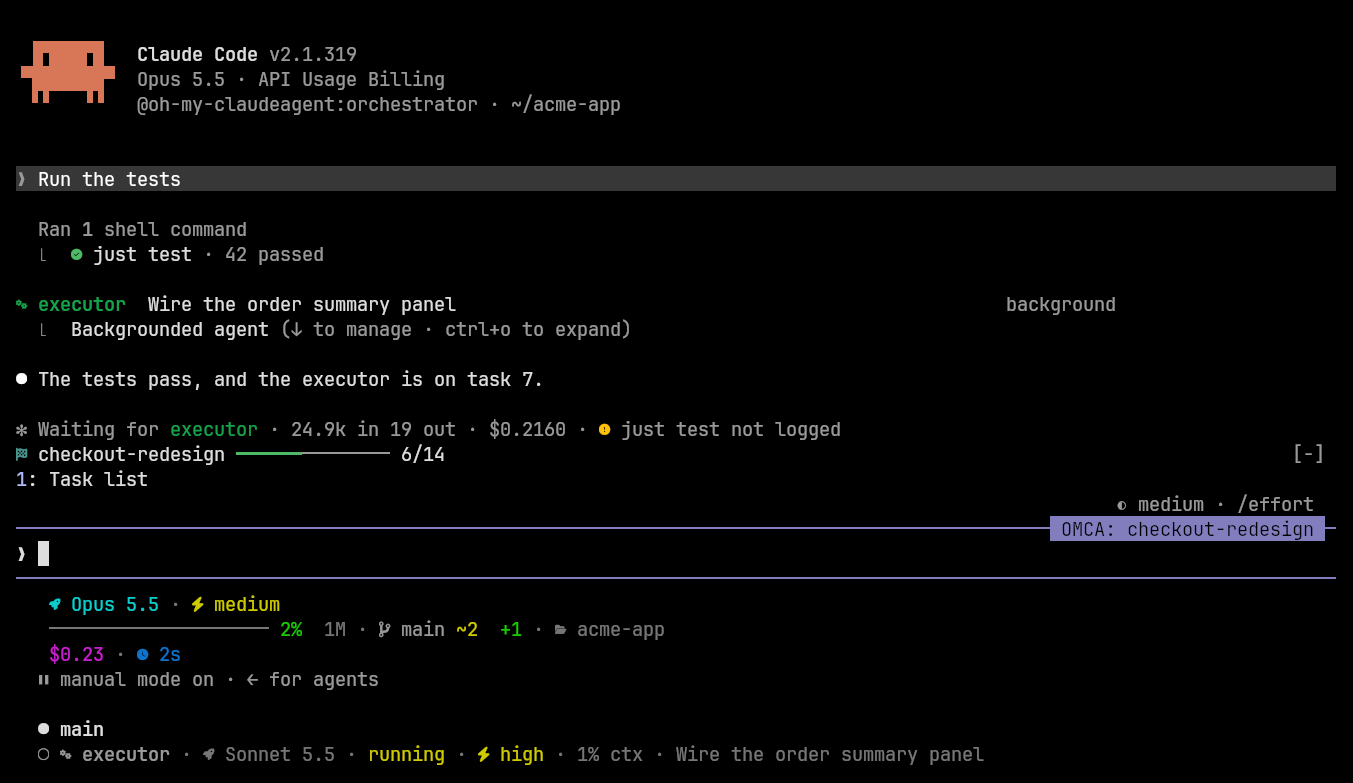
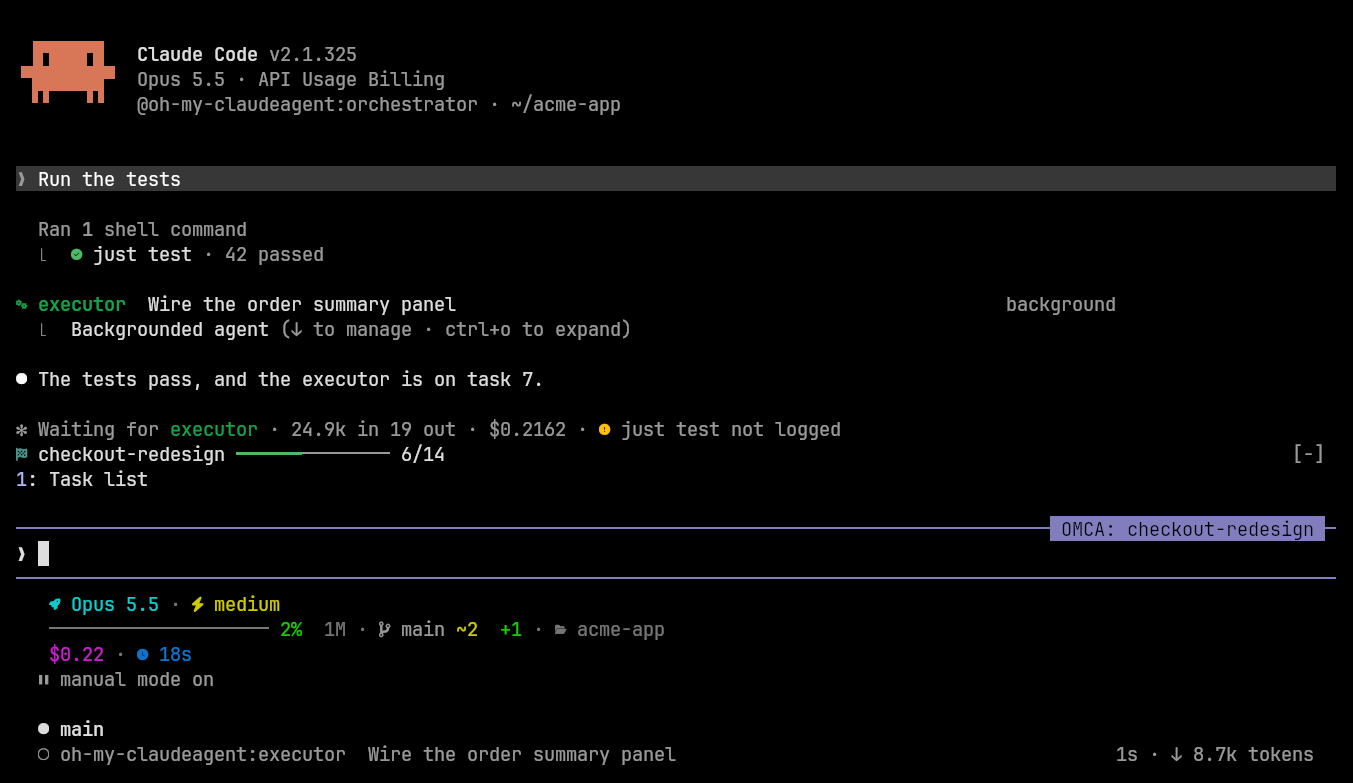
docs: recapture the band screen and drop the last subagent row leftovers
The band screen showed OMCA's subagent status row, which Claude Code
2.1.323 removed; it is recaptured on 2.1.325, and its shot now waits for
the turn line and the band's Task list button, which the first capture
on 2.1.325 drew before. The statusline AGENTS.md no longer names a
subagent renderer.

diff --git a/scripts/docs/screenshots.spec.ts b/scripts/docs/screenshots.spec.ts
@@ -39,6 +39,13 @@ describe("SHOTS", () => {
     expect(still("mascots")?.ready([...lanes.slice(0, 2), "architect             ◆ running     1s\nfable-5-1"].join("\n"))).toBe(false);
   });
 
+  test("the band scene is ready only once the turn line and the band's button are drawn", () => {
+    const screen = ["just test · 42 passed", "Waiting for executor · 24.9k in 19 out · $0.2162 · just test not logged", "checkout-redesign 6/14", "1: Task list"];
+    expect(still("band")?.ready(screen.join("\n"))).toBe(true);
+    expect(still("band")?.ready([screen[0], screen[2]].join("\n"))).toBe(false);
+    expect(still("band")?.ready(screen.slice(0, 3).join("\n"))).toBe(false);
+  });
+
   test("the statusline scene is ready only once the turn line waits on both agents and their rows show tokens", () => {
     const turn = "✻ Waiting for executor ×2 · 25.2k in 13 out · $0.2346";
     const rows = [

diff --git a/scripts/docs/screenshots.ts b/scripts/docs/screenshots.ts
@@ -491,7 +491,7 @@ export const SHOTS: readonly Still[] = [
       main: [{ content: [bash("just test", "Run the tests"), TASK_7] }, { content: [text("The tests pass, and the executor is on task 7.")] }],
       subagent: [{ content: [tool("Read", { file_path: "src/steps/summary.ts" })] }, { content: [WATCH_SUMMARY] }],
     },
-    ready: (screen) => screen.includes("6/14") && screen.includes("just test · 42 passed"),
+    ready: (screen) => screen.includes("6/14") && screen.includes("just test · 42 passed") && screen.includes("just test not logged") && screen.includes("1: Task list"),
   },
   {
     name: "transcript",

diff --git a/statusline/AGENTS.md b/statusline/AGENTS.md
@@ -1,7 +1,7 @@
 # Statusline
 
-The main status line and the per-subagent tasks panel renderers for Claude Code, in TypeScript
-on bun. Read `README.md` first for what they show and how they are configured.
+The status line renderer for Claude Code, in TypeScript on bun. Read `README.md` first for what it
+shows and how it is configured.
 
 ## Layout
 
